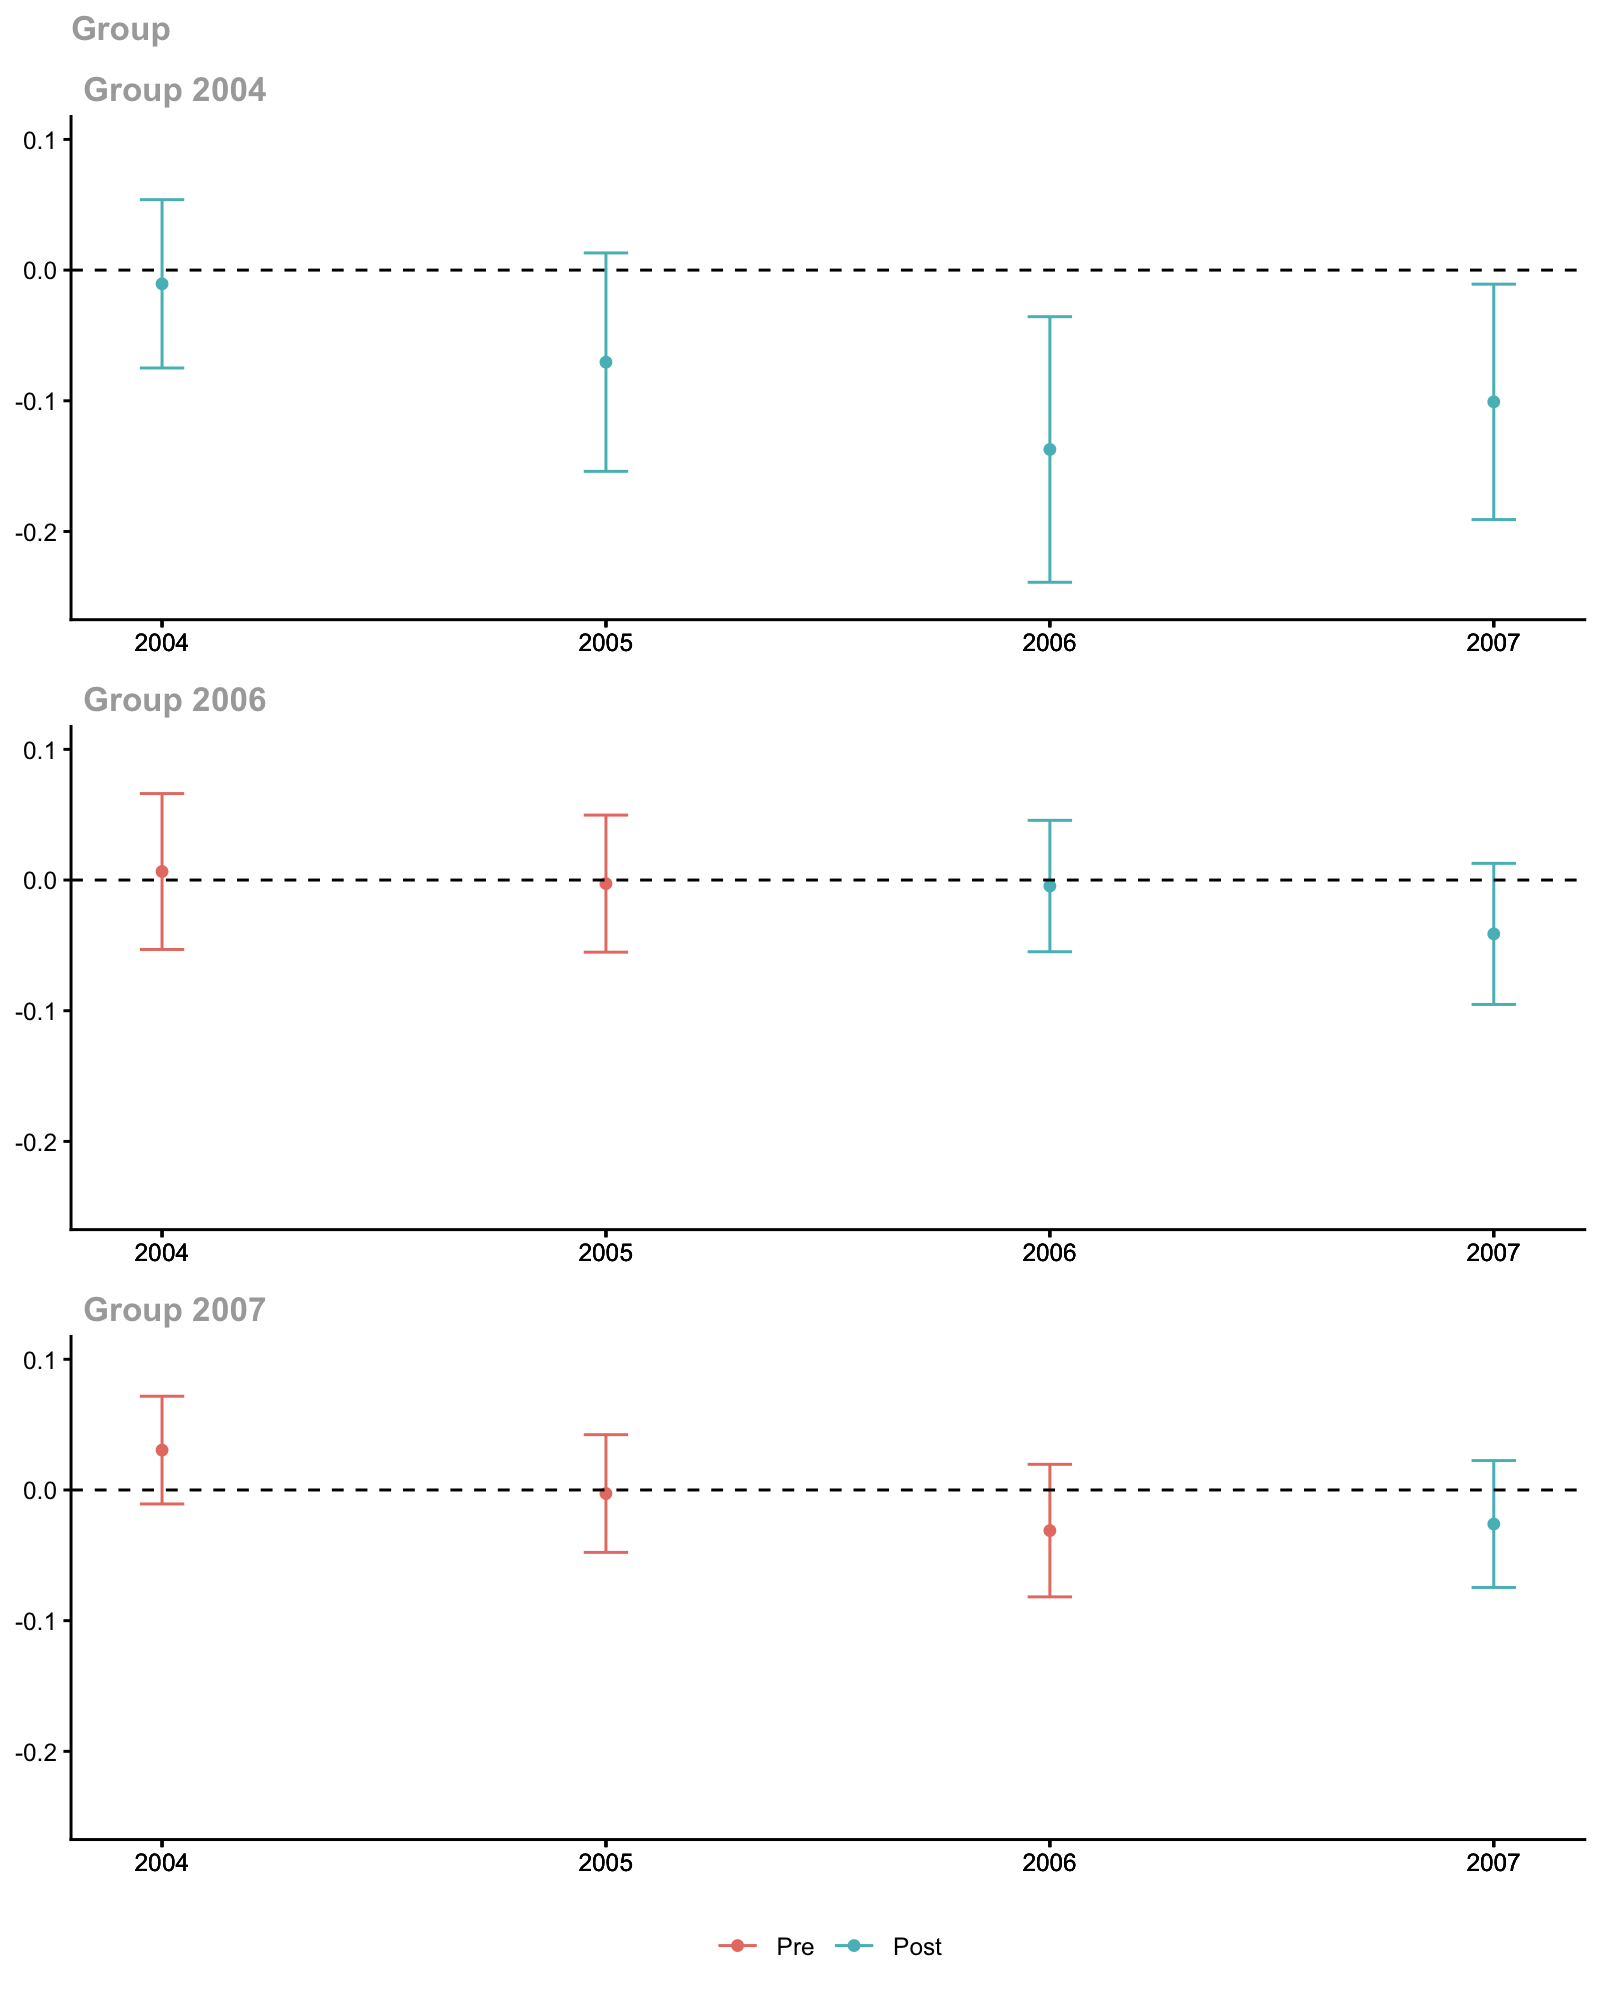
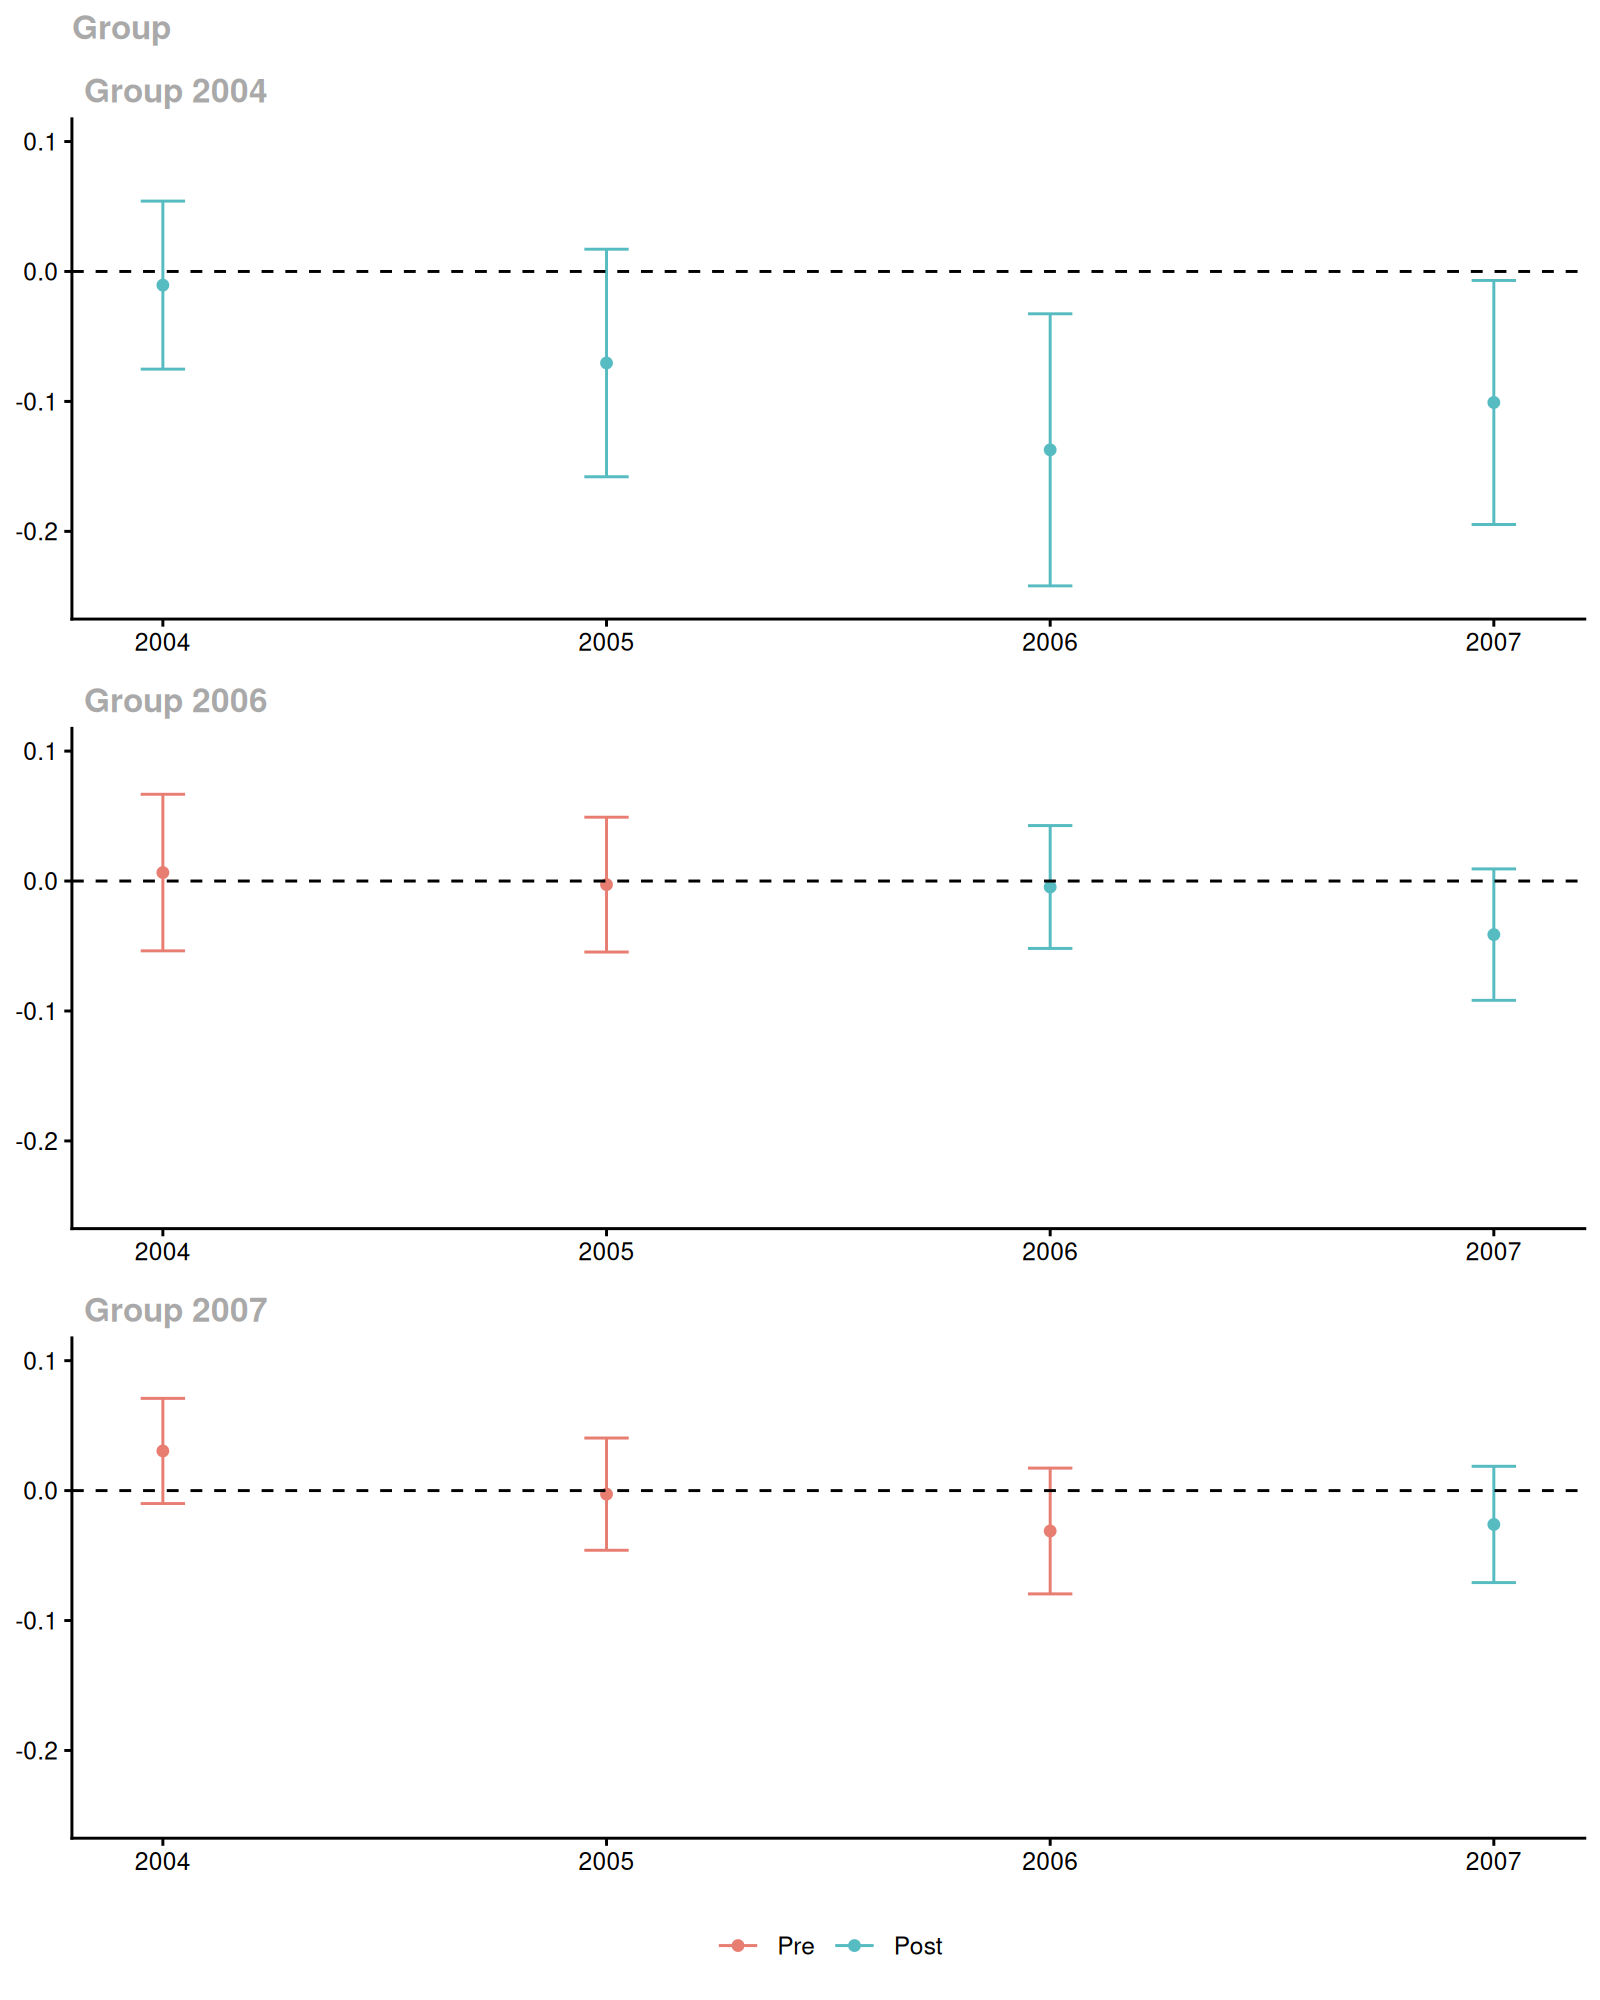
Update cran-comments with accurate revdeplite results; add .revdeplite infrastructure
- cran-comments.md: replace optimistic "all 12 passed clean" claim with
  accurate revdeplite results (10 pass; fetwfe/parameters fail on missing
  optional deps unrelated to did; ptetools warns on BMisc::rhs.vars in its
  own code)
- Add .revdeplite/run_revdeplite.R script for reproducible local revdep checks
- .gitignore: ignore revdeplite result files (*.rds, *.tar.gz, *.md) but
  not the run script
- .Rbuildignore: exclude .revdeplite from package tarball
- README.md, man/figures/: minor numeric drift from bootstrap randomness in
  README rebuild

diff --git a/README.md b/README.md
@@ -135,18 +135,18 @@ summary(out)
 #> 
 #> Group-Time Average Treatment Effects:
 #>  Group Time ATT(g,t) Std. Error [95% Simult.  Conf. Band]  
-#>   2004 2004  -0.0105     0.0241       -0.0749      0.0539  
-#>   2004 2005  -0.0704     0.0313       -0.1540      0.0131  
-#>   2004 2006  -0.1373     0.0380       -0.2389     -0.0357 *
-#>   2004 2007  -0.1008     0.0337       -0.1909     -0.0107 *
-#>   2006 2004   0.0065     0.0223       -0.0531      0.0662  
-#>   2006 2005  -0.0028     0.0196       -0.0552      0.0497  
-#>   2006 2006  -0.0046     0.0188       -0.0549      0.0457  
-#>   2006 2007  -0.0412     0.0202       -0.0952      0.0128  
-#>   2007 2004   0.0305     0.0154       -0.0107      0.0717  
-#>   2007 2005  -0.0027     0.0168       -0.0478      0.0423  
-#>   2007 2006  -0.0311     0.0190       -0.0818      0.0196  
-#>   2007 2007  -0.0261     0.0182       -0.0746      0.0225  
+#>   2004 2004  -0.0105     0.0246       -0.0752      0.0542  
+#>   2004 2005  -0.0704     0.0332       -0.1580      0.0171  
+#>   2004 2006  -0.1373     0.0397       -0.2419     -0.0326 *
+#>   2004 2007  -0.1008     0.0357       -0.1947     -0.0069 *
+#>   2006 2004   0.0065     0.0229       -0.0537      0.0668  
+#>   2006 2005  -0.0028     0.0197       -0.0546      0.0491  
+#>   2006 2006  -0.0046     0.0179       -0.0519      0.0427  
+#>   2006 2007  -0.0412     0.0192       -0.0918      0.0094  
+#>   2007 2004   0.0305     0.0154       -0.0100      0.0710  
+#>   2007 2005  -0.0027     0.0164       -0.0459      0.0405  
+#>   2007 2006  -0.0311     0.0184       -0.0795      0.0173  
+#>   2007 2007  -0.0261     0.0170       -0.0708      0.0187  
 #> ---
 #> Signif. codes: `*' confidence band does not cover 0
 #> 
@@ -211,18 +211,18 @@ summary(es)
 #> 
 #> Overall summary of ATT's based on event-study/dynamic aggregation:  
 #>      ATT    Std. Error     [ 95%  Conf. Int.]  
-#>  -0.0772        0.0196    -0.1156     -0.0389 *
+#>  -0.0772        0.0219    -0.1201     -0.0344 *
 #> 
 #> 
 #> Dynamic Effects:
 #>  Event time Estimate Std. Error [95% Simult.  Conf. Band]  
-#>          -3   0.0305     0.0153       -0.0082      0.0692  
-#>          -2  -0.0006     0.0136       -0.0350      0.0339  
-#>          -1  -0.0245     0.0138       -0.0594      0.0105  
-#>           0  -0.0199     0.0115       -0.0490      0.0091  
-#>           1  -0.0510     0.0174       -0.0952     -0.0068 *
-#>           2  -0.1373     0.0356       -0.2275     -0.0470 *
-#>           3  -0.1008     0.0354       -0.1906     -0.0110 *
+#>          -3   0.0305     0.0154       -0.0100      0.0710  
+#>          -2  -0.0006     0.0132       -0.0352      0.0341  
+#>          -1  -0.0245     0.0153       -0.0646      0.0157  
+#>           0  -0.0199     0.0123       -0.0522      0.0124  
+#>           1  -0.0510     0.0167       -0.0948     -0.0071 *
+#>           2  -0.1373     0.0413       -0.2456     -0.0289 *
+#>           3  -0.1008     0.0351       -0.1931     -0.0085 *
 #> ---
 #> Signif. codes: `*' confidence band does not cover 0
 #> 
@@ -276,14 +276,14 @@ summary(group_effects)
 #> 
 #> Overall summary of ATT's based on group/cohort aggregation:  
 #>     ATT    Std. Error     [ 95%  Conf. Int.]  
-#>  -0.031        0.0123     -0.055      -0.007 *
+#>  -0.031        0.0126    -0.0558     -0.0062 *
 #> 
 #> 
 #> Group Effects:
 #>  Group Estimate Std. Error [95% Simult.  Conf. Band]  
-#>   2004  -0.0797     0.0277       -0.1420     -0.0175 *
-#>   2006  -0.0229     0.0172       -0.0617      0.0159  
-#>   2007  -0.0261     0.0177       -0.0659      0.0138  
+#>   2004  -0.0797     0.0291       -0.1434     -0.0161 *
+#>   2006  -0.0229     0.0176       -0.0613      0.0155  
+#>   2007  -0.0261     0.0175       -0.0642      0.0121  
 #> ---
 #> Signif. codes: `*' confidence band does not cover 0
 #> 

diff --git a/cran-comments.md b/cran-comments.md
@@ -29,8 +29,14 @@ documentation with many plots). The source tarball is about 4.5 Mb.
 There are 12 reverse dependencies on CRAN: cdid, did2s, etwfe, fastdid, fect,
 fetwfe, fixes, modelsummary, NonlinearDiD, optic, parameters, ptetools.
 
-All 12 were checked with `R CMD check` twice -- once against the current CRAN
-release of 'did' (2.3.0) and once against this release (2.5.0). Every package
-passed with 0 ERRORs, 0 WARNINGs, and 0 NOTEs under both versions, and each
-package's check log is line-for-line identical across the two runs.
-No regressions.
+All 12 were checked locally with `revdeplite`. 10 pass with 0 ERRORs, 0
+WARNINGs, and 0 NOTEs. The two failures and one warning are pre-existing issues
+in those packages unrelated to `did`:
+
+* **fetwfe**: ERROR in examples — `library(bacondecomp)` fails because
+  `bacondecomp` is not installed; this is a missing dependency in `fetwfe`'s
+  own examples and vignette, not caused by `did`.
+* **parameters**: ERROR in tests — requires `clubSandwich` which is not
+  installed; this is a missing optional dependency in `parameters` itself.
+* **ptetools**: WARNING — calls the deprecated `BMisc::rhs.vars()` in its own
+  source code; no connection to changes in `did`.